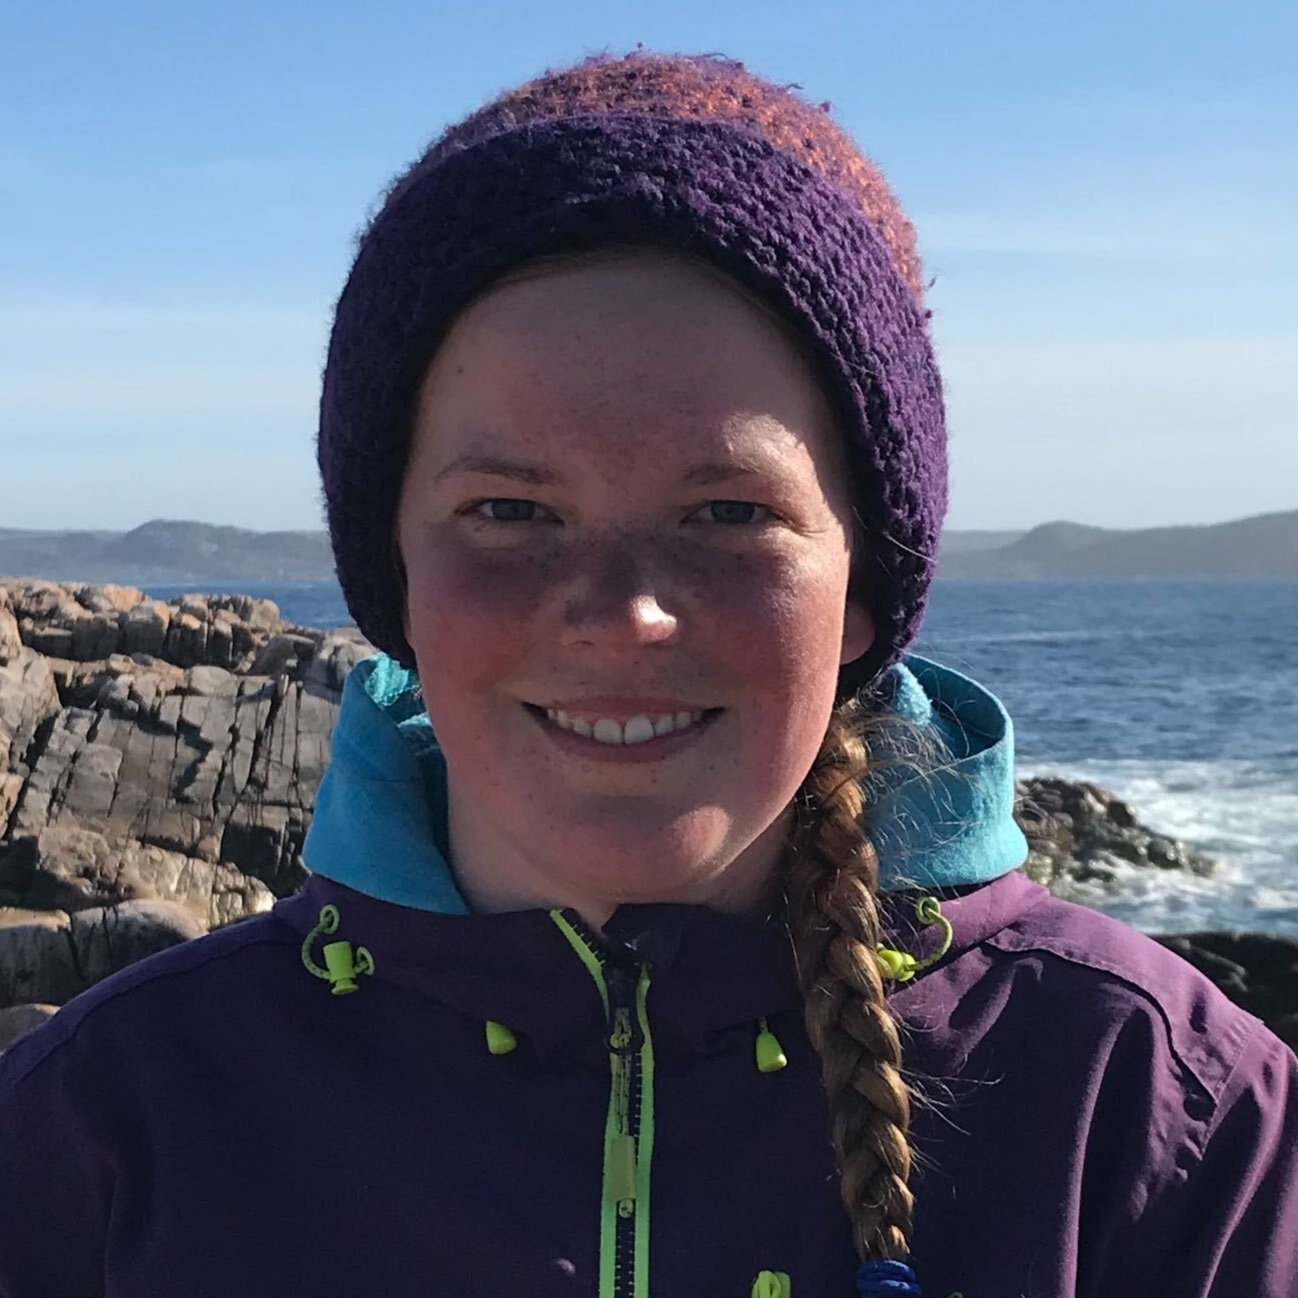
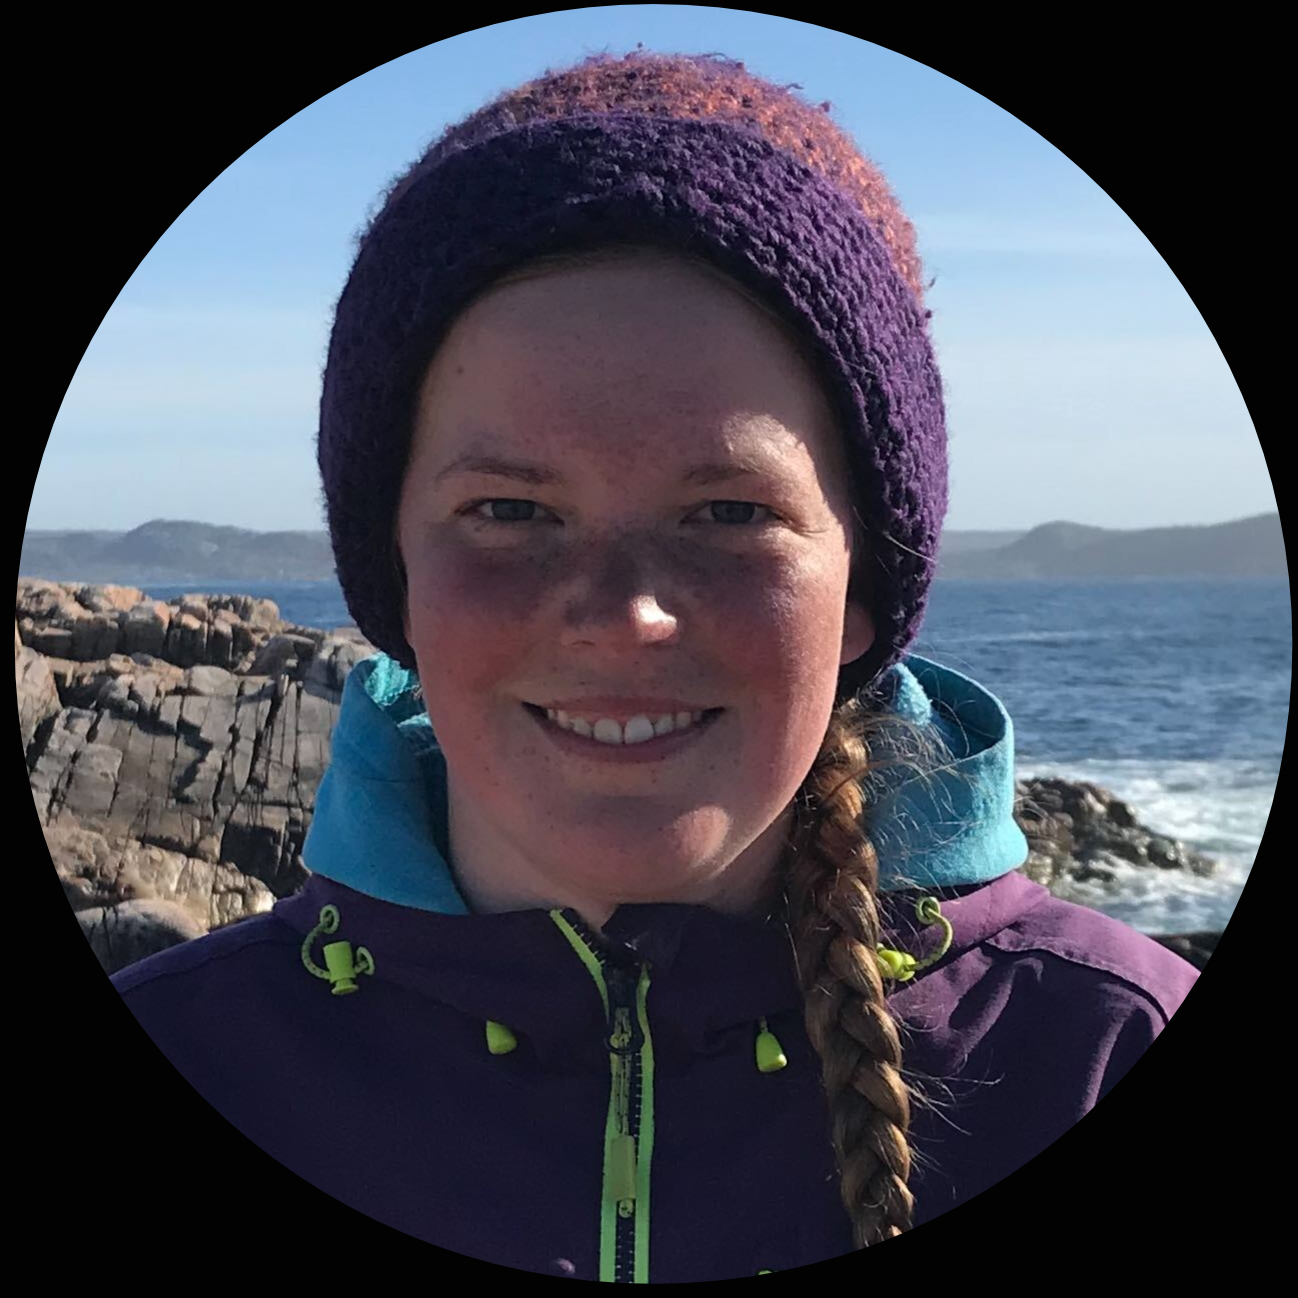
fix splash

Changed region(s): [[0.0, 0.0, 1.0, 1.0]]

diff --git a/style.css b/style.css
@@ -3,14 +3,16 @@
     font-family: 'Poppins', sans-serif;
 }
 body{
-    background-image: url(images/IMG_9263.JPG);
-    background-size: cover;
+    margin: 0;
 }
+/* Top splash bit */
 .center{
     justify-content: center;
     display: grid;
     align-items: center;
     height: 100vh;
+    background-image: url(images/IMG_9263.JPG);
+    background-size: cover;
 }
 .splash{
     display: flex;
@@ -66,6 +68,15 @@ a{
     text-decoration: none;
 }
 
+/* Scroll tracker */
+.scroll-tracker{
+    position: fixed;
+    inset: 0 0 auto;
+    height: .5rem;
+    background-color: #F55308;
+}
+
+/* Main body */
 .mainBody{
     background-color: #1F0514;
 }
